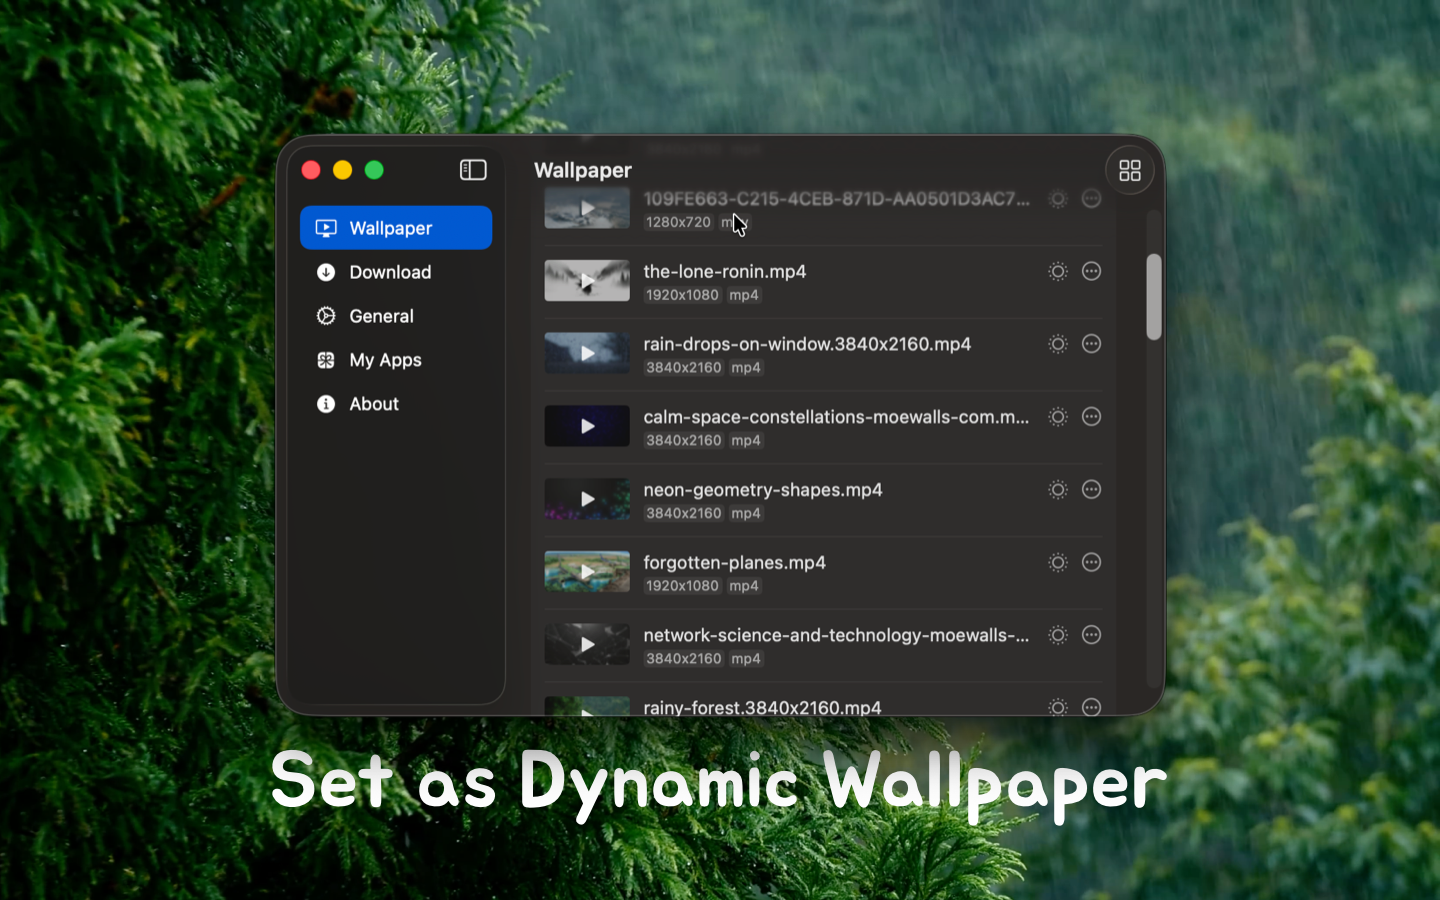
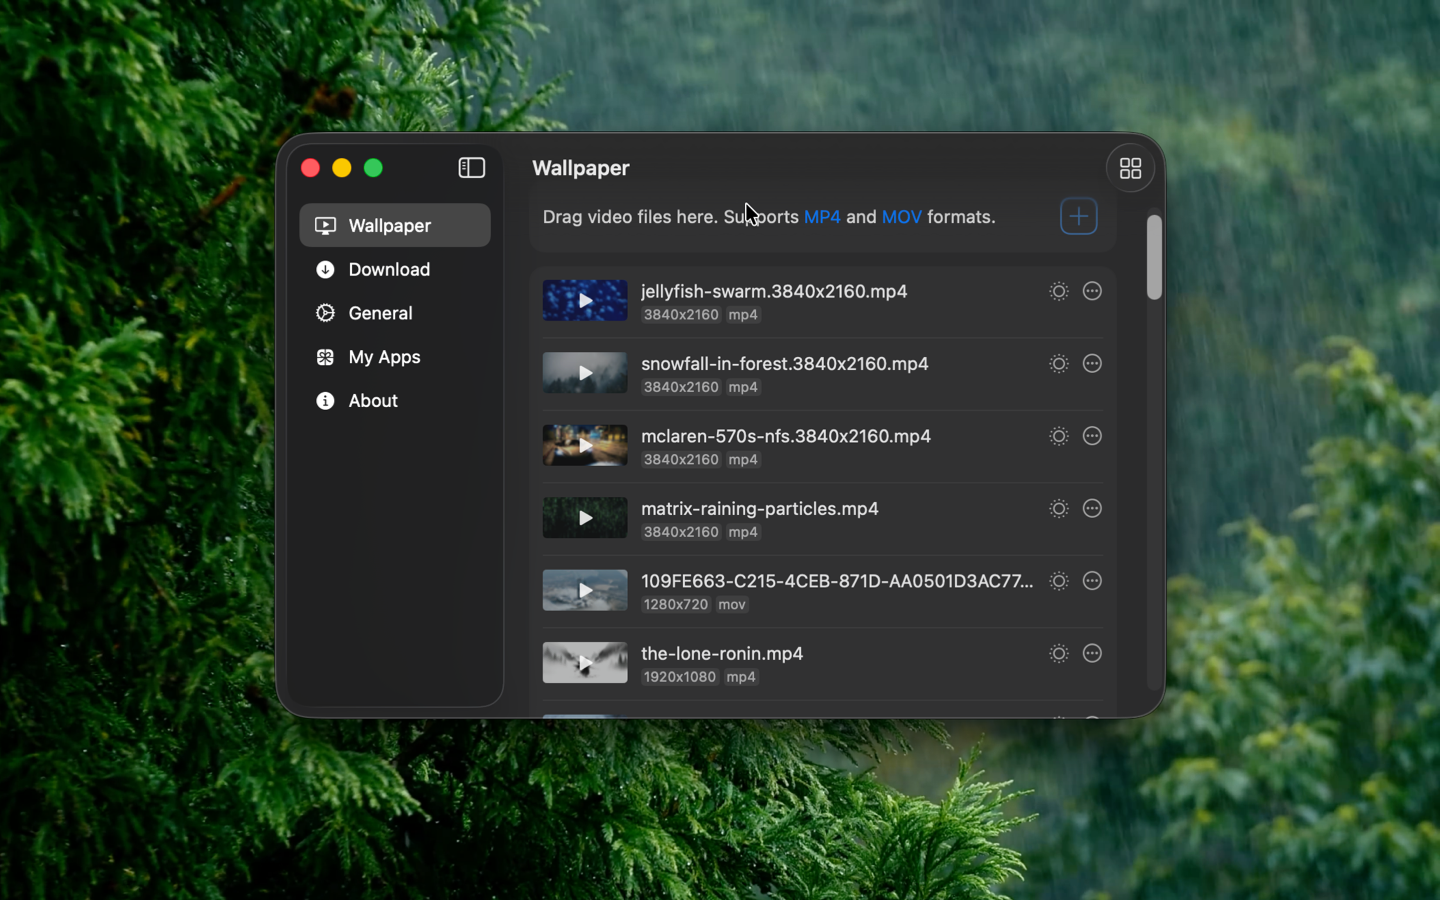
released v1.9.0 805232958e5144a05848261f60cbfcee893d903d

diff --git a/CHANGELOG.html b/CHANGELOG.html
@@ -4,8 +4,8 @@
     <meta charset="UTF-8">
     <meta http-equiv="X-UA-Compatible" content="IE=edge">
     <meta name="viewport" content="width=device-width, initial-scale=1.0">
-    <title>Changelog Vidwall v1.8.0</title>
-    <meta name="description" content="支持将 4K 视频设置为动态桌面壁纸，兼容 MP4 和 MOV 格式。">
+    <title>Changelog Vidwall v1.9.0</title>
+    <meta name="description" content="Set stunning 4K videos as your dynamic desktop wallpaper — supports MP4 and MOV formats. Simply drag and drop a video in">
     <meta name="keywords" content="动态壁纸,视频壁纸,桌面壁纸,4K,MP4,MOV,Video Wallpaper,Dynamic Wallpaper,Desktop Wallpaper,4K Video,桌面美化,视频桌面,Vidwall">
     <link rel="stylesheet" type="text/css" href="css/main.css?v=1.34.2">
     <link rel="stylesheet" type="text/css" href="css/tocbot.css?v=1.34.2">
@@ -20,8 +20,8 @@
   </head>
   <body id="idoctotop"><a href="#idoctotop" class="gototop">top</a>
     <header class="header">
-      <article class="inner warpper" style="max-width:720px;"><a class="logo" href="index.html"><img alt="Vidwall <sup>v1.8.0</sup> logo" src="assets/logo.png">
-<span class="title">Vidwall <sup>v1.8.0</sup></span></a>
+      <article class="inner warpper" style="max-width:720px;"><a class="logo" href="index.html"><img alt="Vidwall <sup>v1.9.0</sup> logo" src="assets/logo.png">
+<span class="title">Vidwall <sup>v1.9.0</sup></span></a>
         <div class="content">
           <ul class="menu">
             <li><a href="index.html" target="" class="">Home</a></li>
@@ -38,6 +38,12 @@
       <markdown-style theme-auto-switch-disabled="">
         <p align="right" style="float: right; bottom: -36px; position: relative;"><a href="./CHANGELOG.zh.html">中文</a></p><!--rehype:style=float: right; bottom: -36px; position: relative;-->
         <h1 id="changelog"><a aria-hidden="true" tabindex="-1" href="#changelog" class="anchor"><span class="icon icon-link"></span></a>Changelog</h1><a target="_blank" href="https://apps.apple.com/app/vidwall/6747587746" title="Vidwall for macOS"><img alt="Vidwall AppStore" src="https://jaywcjlove.github.io/sb/download/macos.svg" height="51"></a>
+        <h2 id="v190"><a aria-hidden="true" tabindex="-1" href="#v190" class="anchor"><span class="icon icon-link"></span></a><a href="https://github.com/jaywcjlove/vidwall/releases/tag/v1.9.0">v1.9.0</a></h2>
+        <ol>
+          <li>fix: fix issue where the menu was not locked when loading files.</li>
+          <li>perf: optimize list display performance.</li>
+          <li>perf: optimize video fade-in and fade-out settings</li>
+        </ol>
         <h2 id="v180"><a aria-hidden="true" tabindex="-1" href="#v180" class="anchor"><span class="icon icon-link"></span></a><a href="https://github.com/jaywcjlove/vidwall/releases/tag/v1.8.0">v1.8.0</a></h2>
         <ol>
           <li>feat: add quick menu to status bar</li>

diff --git a/CHANGELOG.zh.html b/CHANGELOG.zh.html
@@ -4,8 +4,8 @@
     <meta charset="UTF-8">
     <meta http-equiv="X-UA-Compatible" content="IE=edge">
     <meta name="viewport" content="width=device-width, initial-scale=1.0">
-    <title>更新日志 Vidwall v1.8.0</title>
-    <meta name="description" content="支持将 4K 视频设置为动态桌面壁纸，兼容 MP4 和 MOV 格式。">
+    <title>更新日志 Vidwall v1.9.0</title>
+    <meta name="description" content="Set stunning 4K videos as your dynamic desktop wallpaper — supports MP4 and MOV formats. Simply drag and drop a video in">
     <meta name="keywords" content="动态壁纸,视频壁纸,桌面壁纸,4K,MP4,MOV,Video Wallpaper,Dynamic Wallpaper,Desktop Wallpaper,4K Video,桌面美化,视频桌面,Vidwall">
     <link rel="stylesheet" type="text/css" href="css/main.css?v=1.34.2">
     <link rel="stylesheet" type="text/css" href="css/tocbot.css?v=1.34.2">
@@ -20,8 +20,8 @@
   </head>
   <body id="idoctotop"><a href="#idoctotop" class="gototop">top</a>
     <header class="header">
-      <article class="inner warpper" style="max-width:720px;"><a class="logo" href="index.html"><img alt="Vidwall <sup>v1.8.0</sup> logo" src="assets/logo.png">
-<span class="title">Vidwall <sup>v1.8.0</sup></span></a>
+      <article class="inner warpper" style="max-width:720px;"><a class="logo" href="index.html"><img alt="Vidwall <sup>v1.9.0</sup> logo" src="assets/logo.png">
+<span class="title">Vidwall <sup>v1.9.0</sup></span></a>
         <div class="content">
           <ul class="menu">
             <li><a href="index.html" target="" class="">Home</a></li>
@@ -38,6 +38,12 @@
       <markdown-style theme-auto-switch-disabled="">
         <p align="right" style="float: right; bottom: -36px; position: relative;"><a href="./CHANGELOG.html">English</a></p><!--rehype:style=float: right; bottom: -36px; position: relative;-->
         <h1 id="更新日志"><a aria-hidden="true" tabindex="-1" href="#更新日志" class="anchor"><span class="icon icon-link"></span></a>更新日志</h1><a target="_blank" href="https://apps.apple.com/app/vidwall/6747587746" title="Vidwall for macOS"><img alt="Vidwall AppStore" src="https://jaywcjlove.github.io/sb/download/macos.svg" height="51"></a>
+        <h2 id="v190"><a aria-hidden="true" tabindex="-1" href="#v190" class="anchor"><span class="icon icon-link"></span></a><a href="https://github.com/jaywcjlove/vidwall/releases/tag/v1.9.0">v1.9.0</a></h2>
+        <ol>
+          <li>fix: 修复加载文件时未锁定菜单的问题。</li>
+          <li>perf: 优化列表展示性能。</li>
+          <li>perf: 优化视频淡入淡出设置。</li>
+        </ol>
         <h2 id="v180"><a aria-hidden="true" tabindex="-1" href="#v180" class="anchor"><span class="icon icon-link"></span></a><a href="https://github.com/jaywcjlove/vidwall/releases/tag/v1.8.0">v1.8.0</a></h2>
         <ol>
           <li>feat：添加状态栏快捷菜单</li>

diff --git a/index.html b/index.html
@@ -4,9 +4,9 @@
     <meta charset="UTF-8">
     <meta http-equiv="X-UA-Compatible" content="IE=edge">
     <meta name="viewport" content="width=device-width, initial-scale=1.0">
-    <title>Vidwall v1.8.0</title>
+    <title>Vidwall Vidwall v1.9.0</title>
     <meta name="description" content="Set stunning 4K videos as your dynamic desktop wallpaper — supports MP4 and MOV formats. Simply drag and drop a video in">
-    <meta name="keywords" content="Dynamic Wallpaper,Video Wallpaper,Desktop Wallpaper,4K,MP4,MOV,4K Video,Video Desktop">
+    <meta name="keywords" content="动态壁纸,视频壁纸,桌面壁纸,4K,MP4,MOV,Video Wallpaper,Dynamic Wallpaper,Desktop Wallpaper,4K Video,桌面美化,视频桌面,Vidwall">
     <link rel="stylesheet" type="text/css" href="css/main.css?v=1.34.2">
     <link rel="stylesheet" type="text/css" href="css/tocbot.css?v=1.34.2">
     <link rel="stylesheet" type="text/css" href="css/media.css?v=1.34.2">
@@ -20,8 +20,8 @@
   </head>
   <body id="idoctotop"><a href="#idoctotop" class="gototop">top</a>
     <header class="header">
-      <article class="inner warpper" style="max-width:720px;"><a class="logo" href="index.html"><img alt="Vidwall <sup>v1.8.0</sup> logo" src="assets/logo.png">
-<span class="title">Vidwall <sup>v1.8.0</sup></span></a>
+      <article class="inner warpper" style="max-width:720px;"><a class="logo" href="index.html"><img alt="Vidwall <sup>v1.9.0</sup> logo" src="assets/logo.png">
+<span class="title">Vidwall <sup>v1.9.0</sup></span></a>
         <div class="content">
           <ul class="menu">
             <li><a href="index.html" target="" class="active">Home</a></li>

diff --git a/terms-of-service.zh.html b/terms-of-service.zh.html
@@ -4,7 +4,7 @@
     <meta charset="UTF-8">
     <meta http-equiv="X-UA-Compatible" content="IE=edge">
     <meta name="viewport" content="width=device-width, initial-scale=1.0">
-    <title>服务条款 Vidwall v1.8.0</title>
+    <title>服务条款 Vidwall v1.9.0</title>
     <meta name="description" content="欢迎使用 Vidwall！本服务条款（以下简称“条款”）规范您对本应用（以下简称“应用”）的使用。请在使用前仔细阅读本条款。您的使用即表示您同意遵守本条款。">
     <meta name="keywords" content="动态壁纸,视频壁纸,桌面壁纸,4K,MP4,MOV,Video Wallpaper,Dynamic Wallpaper,Desktop Wallpaper,4K Video,桌面美化,视频桌面,Vidwall">
     <link rel="stylesheet" type="text/css" href="css/main.css?v=1.34.2">
@@ -20,8 +20,8 @@
   </head>
   <body id="idoctotop"><a href="#idoctotop" class="gototop">top</a>
     <header class="header">
-      <article class="inner warpper" style="max-width:720px;"><a class="logo" href="index.html"><img alt="Vidwall <sup>v1.8.0</sup> logo" src="assets/logo.png">
-<span class="title">Vidwall <sup>v1.8.0</sup></span></a>
+      <article class="inner warpper" style="max-width:720px;"><a class="logo" href="index.html"><img alt="Vidwall <sup>v1.9.0</sup> logo" src="assets/logo.png">
+<span class="title">Vidwall <sup>v1.9.0</sup></span></a>
         <div class="content">
           <ul class="menu">
             <li><a href="index.html" target="" class="">Home</a></li>

diff --git a/feedback.zh.html b/feedback.zh.html
@@ -4,7 +4,7 @@
     <meta charset="UTF-8">
     <meta http-equiv="X-UA-Compatible" content="IE=edge">
     <meta name="viewport" content="width=device-width, initial-scale=1.0">
-    <title>反馈与支持 Vidwall v1.8.0</title>
+    <title>反馈与支持 Vidwall v1.9.0</title>
     <meta name="description" content="Vidwall 是一款将 4K 视频设置为动态桌面壁纸，支持 MP4、MOV 格式。只需将视频拖拽到应用界面，点击即可应用为动态壁纸。">
     <meta name="keywords" content="动态壁纸,视频壁纸,桌面壁纸,4K,MP4,MOV,Video Wallpaper,Dynamic Wallpaper,Desktop Wallpaper,4K Video,桌面美化,视频桌面,Vidwall">
     <link rel="stylesheet" type="text/css" href="css/main.css?v=1.34.2">
@@ -20,8 +20,8 @@
   </head>
   <body id="idoctotop"><a href="#idoctotop" class="gototop">top</a>
     <header class="header">
-      <article class="inner warpper" style="max-width:720px;"><a class="logo" href="index.html"><img alt="Vidwall <sup>v1.8.0</sup> logo" src="assets/logo.png">
-<span class="title">Vidwall <sup>v1.8.0</sup></span></a>
+      <article class="inner warpper" style="max-width:720px;"><a class="logo" href="index.html"><img alt="Vidwall <sup>v1.9.0</sup> logo" src="assets/logo.png">
+<span class="title">Vidwall <sup>v1.9.0</sup></span></a>
         <div class="content">
           <ul class="menu">
             <li><a href="index.html" target="" class="">Home</a></li>

diff --git a/feedback.html b/feedback.html
@@ -4,7 +4,7 @@
     <meta charset="UTF-8">
     <meta http-equiv="X-UA-Compatible" content="IE=edge">
     <meta name="viewport" content="width=device-width, initial-scale=1.0">
-    <title>Feedback &#x26; Support Vidwall v1.8.0</title>
+    <title>Feedback &#x26; Support Vidwall v1.9.0</title>
     <meta name="description" content="Vidwall is an app that lets you set 4K videos as dynamic desktop wallpapers, supporting MP4 and MOV formats. Simply drag">
     <meta name="keywords" content="动态壁纸,视频壁纸,桌面壁纸,4K,MP4,MOV,Video Wallpaper,Dynamic Wallpaper,Desktop Wallpaper,4K Video,桌面美化,视频桌面,Vidwall">
     <link rel="stylesheet" type="text/css" href="css/main.css?v=1.34.2">
@@ -20,8 +20,8 @@
   </head>
   <body id="idoctotop"><a href="#idoctotop" class="gototop">top</a>
     <header class="header">
-      <article class="inner warpper" style="max-width:720px;"><a class="logo" href="index.html"><img alt="Vidwall <sup>v1.8.0</sup> logo" src="assets/logo.png">
-<span class="title">Vidwall <sup>v1.8.0</sup></span></a>
+      <article class="inner warpper" style="max-width:720px;"><a class="logo" href="index.html"><img alt="Vidwall <sup>v1.9.0</sup> logo" src="assets/logo.png">
+<span class="title">Vidwall <sup>v1.9.0</sup></span></a>
         <div class="content">
           <ul class="menu">
             <li><a href="index.html" target="" class="">Home</a></li>

diff --git a/terms-of-service.html b/terms-of-service.html
@@ -4,7 +4,7 @@
     <meta charset="UTF-8">
     <meta http-equiv="X-UA-Compatible" content="IE=edge">
     <meta name="viewport" content="width=device-width, initial-scale=1.0">
-    <title>Terms of Service Vidwall v1.8.0</title>
+    <title>Terms of Service Vidwall v1.9.0</title>
     <meta name="description" content="Welcome to Vidwall! These Terms of Service (hereinafter referred to as &#x22;Terms&#x22;) govern your use of this application (her">
     <meta name="keywords" content="动态壁纸,视频壁纸,桌面壁纸,4K,MP4,MOV,Video Wallpaper,Dynamic Wallpaper,Desktop Wallpaper,4K Video,桌面美化,视频桌面,Vidwall">
     <link rel="stylesheet" type="text/css" href="css/main.css?v=1.34.2">
@@ -20,8 +20,8 @@
   </head>
   <body id="idoctotop"><a href="#idoctotop" class="gototop">top</a>
     <header class="header">
-      <article class="inner warpper" style="max-width:720px;"><a class="logo" href="index.html"><img alt="Vidwall <sup>v1.8.0</sup> logo" src="assets/logo.png">
-<span class="title">Vidwall <sup>v1.8.0</sup></span></a>
+      <article class="inner warpper" style="max-width:720px;"><a class="logo" href="index.html"><img alt="Vidwall <sup>v1.9.0</sup> logo" src="assets/logo.png">
+<span class="title">Vidwall <sup>v1.9.0</sup></span></a>
         <div class="content">
           <ul class="menu">
             <li><a href="index.html" target="" class="">Home</a></li>

diff --git a/privacy-policy.zh.html b/privacy-policy.zh.html
@@ -4,7 +4,7 @@
     <meta charset="UTF-8">
     <meta http-equiv="X-UA-Compatible" content="IE=edge">
     <meta name="viewport" content="width=device-width, initial-scale=1.0">
-    <title>隐私政策 Vidwall v1.8.0</title>
+    <title>隐私政策 Vidwall v1.9.0</title>
     <meta name="description" content="感谢您使用 Vidwall！我们非常重视您的隐私。本文将说明在您使用本应用期间，我们如何处理您的数据。">
     <meta name="keywords" content="动态壁纸,视频壁纸,桌面壁纸,4K,MP4,MOV,Video Wallpaper,Dynamic Wallpaper,Desktop Wallpaper,4K Video,桌面美化,视频桌面,Vidwall">
     <link rel="stylesheet" type="text/css" href="css/main.css?v=1.34.2">
@@ -20,8 +20,8 @@
   </head>
   <body id="idoctotop"><a href="#idoctotop" class="gototop">top</a>
     <header class="header">
-      <article class="inner warpper" style="max-width:720px;"><a class="logo" href="index.html"><img alt="Vidwall <sup>v1.8.0</sup> logo" src="assets/logo.png">
-<span class="title">Vidwall <sup>v1.8.0</sup></span></a>
+      <article class="inner warpper" style="max-width:720px;"><a class="logo" href="index.html"><img alt="Vidwall <sup>v1.9.0</sup> logo" src="assets/logo.png">
+<span class="title">Vidwall <sup>v1.9.0</sup></span></a>
         <div class="content">
           <ul class="menu">
             <li><a href="index.html" target="" class="">Home</a></li>

diff --git a/privacy-policy.html b/privacy-policy.html
@@ -4,7 +4,7 @@
     <meta charset="UTF-8">
     <meta http-equiv="X-UA-Compatible" content="IE=edge">
     <meta name="viewport" content="width=device-width, initial-scale=1.0">
-    <title>Privacy Policy Vidwall v1.8.0</title>
+    <title>Privacy Policy Vidwall v1.9.0</title>
     <meta name="description" content="Thank you for using Vidwall! We highly value your privacy. This document explains how we handle your data when you use t">
     <meta name="keywords" content="动态壁纸,视频壁纸,桌面壁纸,4K,MP4,MOV,Video Wallpaper,Dynamic Wallpaper,Desktop Wallpaper,4K Video,桌面美化,视频桌面,Vidwall">
     <link rel="stylesheet" type="text/css" href="css/main.css?v=1.34.2">
@@ -20,8 +20,8 @@
   </head>
   <body id="idoctotop"><a href="#idoctotop" class="gototop">top</a>
     <header class="header">
-      <article class="inner warpper" style="max-width:720px;"><a class="logo" href="index.html"><img alt="Vidwall <sup>v1.8.0</sup> logo" src="assets/logo.png">
-<span class="title">Vidwall <sup>v1.8.0</sup></span></a>
+      <article class="inner warpper" style="max-width:720px;"><a class="logo" href="index.html"><img alt="Vidwall <sup>v1.9.0</sup> logo" src="assets/logo.png">
+<span class="title">Vidwall <sup>v1.9.0</sup></span></a>
         <div class="content">
           <ul class="menu">
             <li><a href="index.html" target="" class="">Home</a></li>

diff --git a/index.zh.html b/index.zh.html
@@ -4,7 +4,7 @@
     <meta charset="UTF-8">
     <meta http-equiv="X-UA-Compatible" content="IE=edge">
     <meta name="viewport" content="width=device-width, initial-scale=1.0">
-    <title>Vidwall Vidwall v1.8.0</title>
+    <title>Vidwall Vidwall v1.9.0</title>
     <meta name="description" content="支持将 4K 视频设置为动态桌面壁纸，兼容 MP4 和 MOV 格式。">
     <meta name="keywords" content="动态壁纸,视频壁纸,桌面壁纸,4K,MP4,MOV,Video Wallpaper,Dynamic Wallpaper,Desktop Wallpaper,4K Video,桌面美化,视频桌面,Vidwall">
     <link rel="stylesheet" type="text/css" href="css/main.css?v=1.34.2">
@@ -20,8 +20,8 @@
   </head>
   <body id="idoctotop"><a href="#idoctotop" class="gototop">top</a>
     <header class="header">
-      <article class="inner warpper" style="max-width:720px;"><a class="logo" href="index.html"><img alt="Vidwall <sup>v1.8.0</sup> logo" src="assets/logo.png">
-<span class="title">Vidwall <sup>v1.8.0</sup></span></a>
+      <article class="inner warpper" style="max-width:720px;"><a class="logo" href="index.html"><img alt="Vidwall <sup>v1.9.0</sup> logo" src="assets/logo.png">
+<span class="title">Vidwall <sup>v1.9.0</sup></span></a>
         <div class="content">
           <ul class="menu">
             <li><a href="index.html" target="" class="">Home</a></li>
